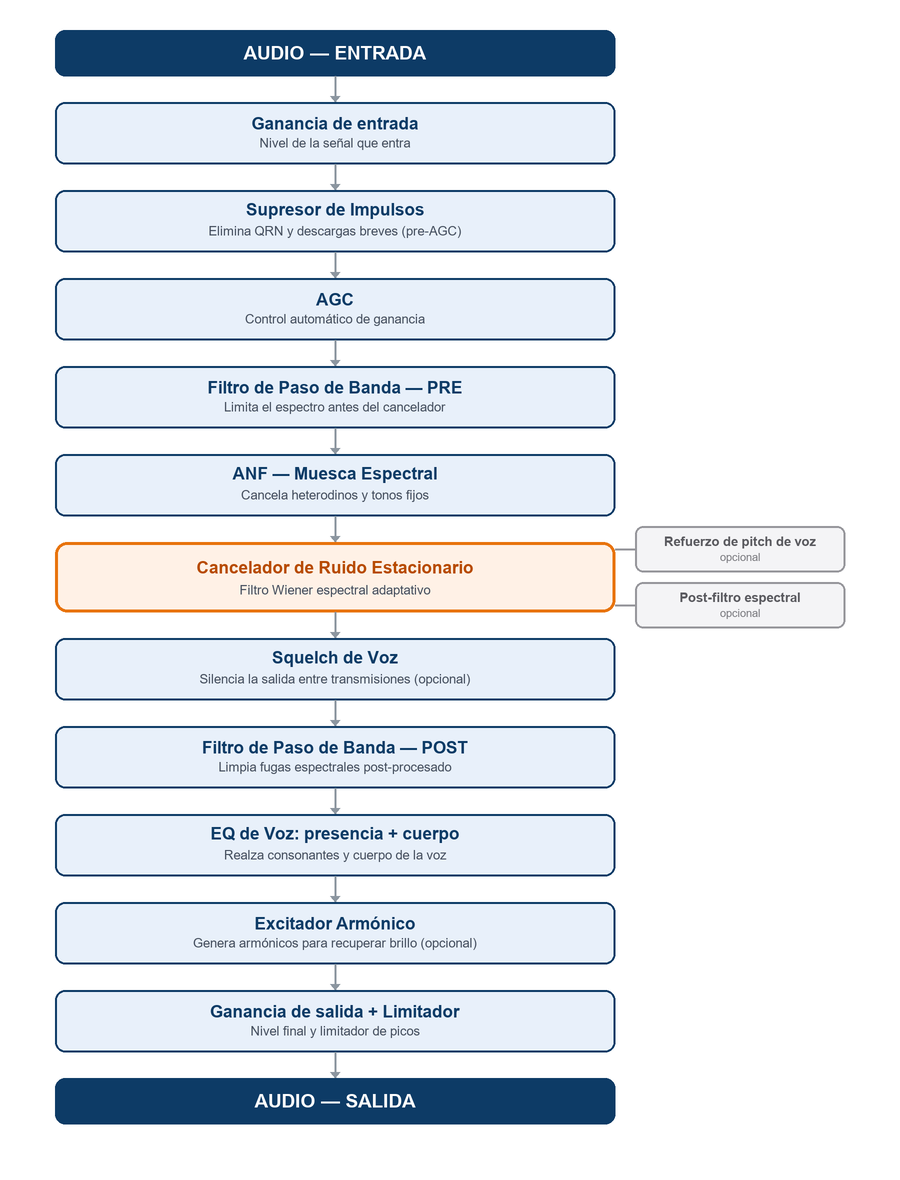
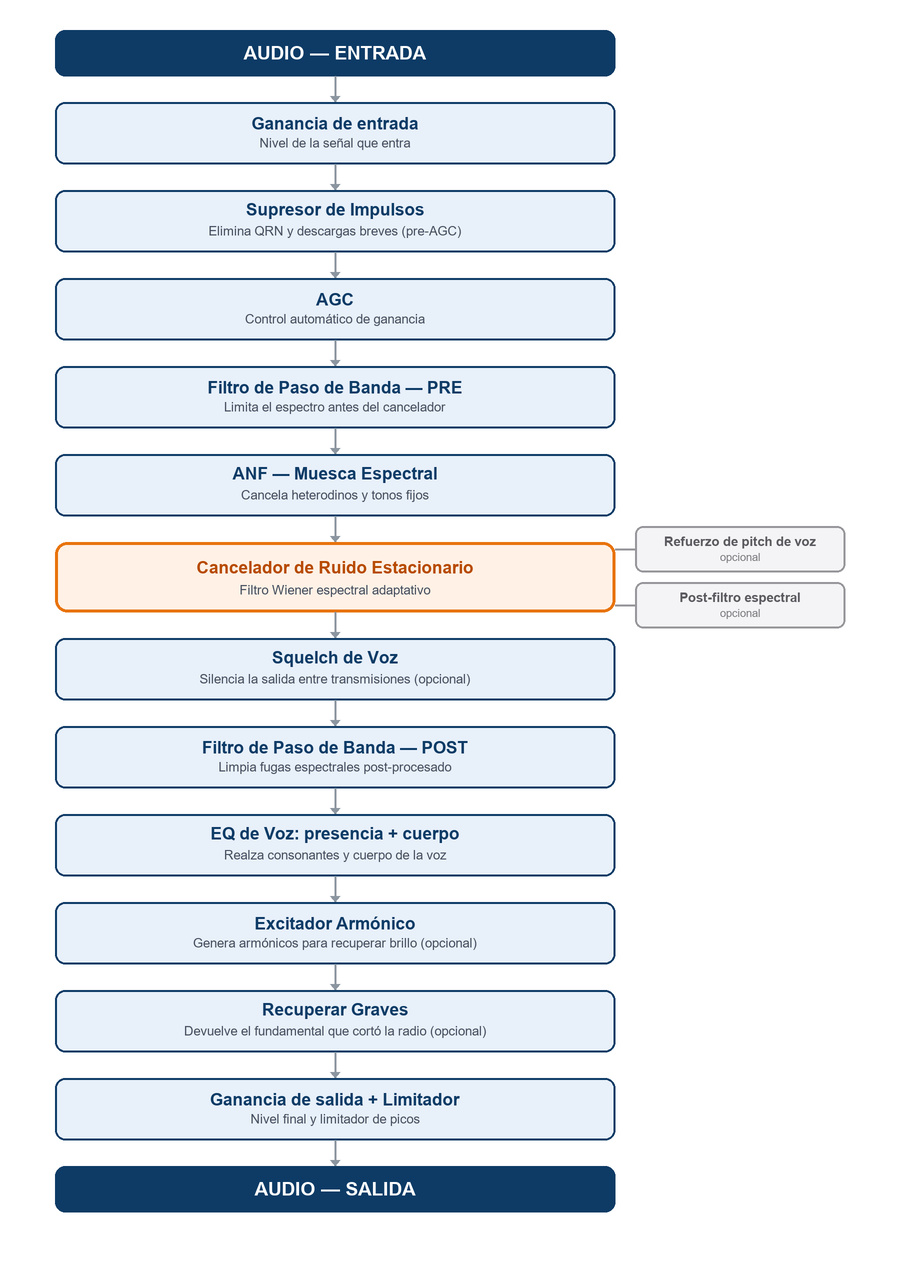
release: v2.0 — rediseño del cancelador, excitador real y recuperacion de graves
Salto de MAYOR, no de menor: cambio el corazon del cancelador y, sobre todo, el
significado numerico de varios controles (Post-Filtro, Intensidad, Mezcla del
excitador). Los presets de 1.9.x cargan sin error pero no suenan igual — los 7 de
fabrica se reajustaron en el aire.

Cancelador
  - El post-filtro ya no exponencia la ganancia: resta una cantidad fija de dB en
    los bins de ruido (~4.5 dB por punto del slider). El exponente multiplicaba
    por (1+s) la fluctuacion en dB del ruido — era la fuente dominante del
    gorgojeo con solo ruido, y castigaba los bins de voz con p_speech intermedio.
    Se aplica DESPUES de la Intensidad, para que la receta "Intensidad baja +
    post alto" vuelva a funcionar.
  - Anti-gorgojeo automatico gateado por el VAD, sin controles nuevos.
  - MCRA ya no aprende la voz sostenida: los frames con voz no alimentan el
    estimador. El gate es la PERIODICIDAD (autocorrelacion), no el VAD, porque el
    VAD depende del propio estimador y realimentaba el freeze.
  - El arranque de cada silaba ya no sale atenuado (salia ~5.8 dB por debajo de su
    meseta: la voz sonaba "limitada"). Ventana de ataque disparada por flanco.
  - Preview: deja de pasar por squelch, nivelador, EQ y excitador — las cuatro se
    disparan con voz y falseaban el diagnostico.

Excitador
  - Reescrito: antes no generaba armonicos audibles, era un realce de agudos
    lineal de +1.8 dB que ademas comprimia con el nivel. Ahora son armonicos
[…]

Changed region(s): [[0.0622, 0.0305, 0.9644, 0.9763], [0.9333, 0.4881, 0.9644, 0.5186]]

diff --git a/tools/gen_pipeline_diagram.py b/tools/gen_pipeline_diagram.py
@@ -55,6 +55,7 @@ STAGES = [
     ("Filtro de Paso de Banda — POST", "Bandpass Filter — POST", "Limpia fugas espectrales post-procesado", "Cleans spectral leakage after processing", "st"),
     ("EQ de Voz: presencia + cuerpo", "Voice EQ: presence + body", "Realza consonantes y cuerpo de la voz", "Boosts consonants and voice body", "st"),
     ("Excitador Armónico", "Harmonic Exciter", "Genera armónicos para recuperar brillo (opcional)", "Adds harmonics to restore brightness (optional)", "st"),
+    ("Recuperar Graves", "Restore Bass", "Devuelve el fundamental que cortó la radio (opcional)", "Brings back the fundamental the radio cut (optional)", "st"),
     ("Ganancia de salida + Limitador", "Output gain + Limiter", "Nivel final y limitador de picos", "Final level and peak limiter", "st"),
     ("AUDIO — SALIDA", "AUDIO — OUTPUT", "", "", "io"),
 ]

diff --git a/src/ui/main_window.py b/src/ui/main_window.py
@@ -1748,7 +1748,7 @@ class MainWindow(QMainWindow):
         valores actuales difieren del preset guardado) + build ID. Compara contra
         el snapshot en memoria — sin disco — para poder llamarse en cada cambio."""
         from buildinfo import BUILD_ID
-        title = "RadioNoiseKiller  v1.9.1  by LU6APA"
+        title = "RadioNoiseKiller  v2.0  by LU6APA"
         name = self._config.last_preset
         if name:
             self._refresh_preset_snapshot(force=False)

diff --git a/src/main.py b/src/main.py
@@ -16,7 +16,7 @@ from utils import resource_path
 def main():
     app = QApplication(sys.argv)
     app.setApplicationName("RadioNoiseKiller")
-    app.setApplicationVersion("1.9.1")
+    app.setApplicationVersion("2.0.0")
     icon_path = resource_path(os.path.join("Images", "RNK_ico.png"))
     if os.path.exists(icon_path):
         app.setWindowIcon(QIcon(icon_path))

diff --git a/MANUAL.md b/MANUAL.md
@@ -1,6 +1,6 @@
 # RadioNoiseKiller — Manual de Usuario
 
-**Versión 1.9.1**
+**Versión 2.0**
 
 ---
 
@@ -176,6 +176,7 @@ Cada casilla de verificación activa o desactiva un módulo del pipeline de form
 | **Filtro de paso de banda (post)** | Casi siempre activo junto con el pre. Limpia artefactos del procesamiento espectral. Corre después del cancelador y el squelch (el orden de esta lista refleja el pipeline). Sus límites pueden independizarse de la entrada (ver Cap. 5). |
 | **EQ Voz (presencia + cuerpo)** | Dos bandas paramétricas: presencia (claridad, 1–2 kHz) y cuerpo (calidez, 150–800 Hz). Activar para modelar la voz con señales debilitadas o muy filtradas. |
 | **Excitador armónico** | Para señales de voz opacas, sin brillo. Añade presencia. Comparar con y sin para decidir. |
+| **Recuperar graves** | Devuelve el fundamental de la voz cuando el filtro de la radio lo cortó, derivándolo de los armónicos que sí pasaron. Para voces que suenan delgadas o "telefónicas" pese a tener buen nivel — sobre todo en SSB con filtro angosto. |
 
 > **Consejo — activar de a uno:** al armar una configuración (o al recibir una señal nueva), activar y desactivar los módulos **de a uno por vez**, escuchando el efecto que produce cada uno. Como todos los cambios aplican en vivo, se oye la diferencia al instante: eso permite ajustar mejor cada módulo — o directamente quitarlo si en esa señal no aporta. Activar todo junto de entrada hace imposible saber qué está ayudando y qué no.
 
@@ -767,6 +768,7 @@ A la derecha de la misma fila, el botón **"🔇 Mute"** silencia la salida a lo
 | Squelch | ✅ Activo | Umbral 15%, retención 300 ms |
 | EQ Voz | ✅ Activo | Presencia +4 dB a 2000 Hz; cuerpo +3 dB a 350 Hz si la voz suena delgada |
 | Excitador armónico | ⬜ Opcional | Drive 2,0×, mezcla 25% |
+| Recuperar graves | ⬜ Opcional | Si la voz suena delgada. Empezar en 35% y subir de a poco |
 
 ### AM (ondas medias o cortas)
 
@@ -785,6 +787,7 @@ A la derecha de la misma fila, el botón **"🔇 Mute"** silencia la salida a lo
 | Squelch | ❌ No usar | Produce bombeo con música |
 | EQ Voz | ⬜ Opcional | Presencia si la voz suena apagada; cuerpo si suena delgada |
 | Excitador armónico | ⬜ Opcional | Con moderación |
+| Recuperar graves | ⬜ Opcional | En AM ancho el fundamental suele estar: revisar primero el corte inferior del pasabanda |
 
 ### Flujo de calibración recomendado
 
@@ -930,4 +933,4 @@ Los valores de los sliders **Máx Y** y **Máx X** del visualizador de espectro 
 
 ---
 
-*RadioNoiseKiller — versión 1.9.1*
+*RadioNoiseKiller — versión 2.0*

diff --git a/MANUAL_EN.md b/MANUAL_EN.md
@@ -1,6 +1,6 @@
 # RadioNoiseKiller — User Manual
 
-**Version 1.9.1**
+**Version 2.0**
 
 ---
 
@@ -176,6 +176,7 @@ Each checkbox enables or disables one pipeline module independently and in real 
 | **Bandpass filter (post)** | Almost always on together with pre. Cleans up spectral-processing artifacts. Runs after the canceller and the squelch (this list reflects the pipeline order). Its limits can be made independent from the input (see Ch. 5). |
 | **Voice EQ (presence + body)** | Two parametric bands: presence (clarity, 1–2 kHz) and body (warmth, 150–800 Hz). Enable to shape the voice on weakened or heavily filtered signals. |
 | **Harmonic exciter** | For dull voice signals lacking brightness. Adds presence. Compare with and without to decide. |
+| **Restore bass** | Brings back the voice's fundamental when the radio's filter cut it, deriving it from the harmonics that did get through. For voices that sound thin or "telephone-like" despite a good level — above all on SSB with a narrow filter. |
 
 > **Tip — enable one at a time:** when building a configuration (or on a new signal), enable and disable the modules **one at a time**, listening to the effect each one produces. Since all changes apply live, you hear the difference instantly: that lets you tune each module better — or simply drop it if it brings nothing on that signal. Enabling everything at once makes it impossible to tell what is helping and what is not.
 
@@ -767,6 +768,7 @@ On the right of the same row, the **"🔇 Mute"** button silences the speaker ou
 | Squelch | ✅ On | Threshold 15%, hold 300 ms |
 | Voice EQ | ✅ On | Presence +4 dB at 2000 Hz; body +3 dB at 350 Hz if the voice sounds thin |
 | Harmonic exciter | ⬜ Optional | Drive 2.0×, mix 25% |
+| Restore bass | ⬜ Optional | If the voice sounds thin. Start at 35% and raise it gradually |
 
 ### AM (medium wave or shortwave)
 
@@ -785,6 +787,7 @@ On the right of the same row, the **"🔇 Mute"** button silences the speaker ou
 | Squelch | ❌ Do not use | Produces pumping with music |
 | Voice EQ | ⬜ Optional | Presence if the voice sounds dull; body if it sounds thin |
 | Harmonic exciter | ⬜ Optional | In moderation |
+| Restore bass | ⬜ Optional | On wide AM the fundamental is usually there: check the bandpass low cut first |
 
 ### Recommended calibration flow
 
@@ -930,4 +933,4 @@ The **Max Y** and **Max X** sliders of the spectrum viewer are also saved in `se
 
 ---
 
-*RadioNoiseKiller — version 1.9.1*
+*RadioNoiseKiller — version 2.0*

diff --git a/CLAUDE.md b/CLAUDE.md
@@ -268,7 +268,16 @@ Bugs reales encontrados en revisión — cada uno es un patrón que puede reapar
    `test_post_filter_on_principal_autoenable`, falla intermitente según el estado del disco). Al
    testear un handler de slider, partir de un valor distinto conocido.
 
-## Cambios pendientes de release (post-v1.9.1)
+**v2.0 publicada (agosto 2026)** — release en GitHub con distribuibles Windows y Linux. Versión de
+app 2.0.0, manuales `MANUAL_RadioNoiseKiller_v2.0.pdf` (ES, 37 págs) y `..._v2.0_EN.pdf` (EN, 36
+págs). Título "v2.0 by LU6APA". **Salto de mayor, no de menor**: cambió el corazón del cancelador y,
+sobre todo, **el significado numérico de varios controles** (Post-Filtro, Intensidad, Mezcla del
+excitador). Los presets de 1.9.x cargan sin error pero no suenan igual — los 8 de fábrica se
+reajustaron en el aire. Todo el contenido de abajo se validó escuchando en la radio, con varias
+iteraciones de ida y vuelta (ver los "reportado en el aire" de cada ítem: casi todos los fixes de
+esta versión salieron de una escucha que contradijo una medición sintética).
+
+## Cambios de la v2.0
 
 **Post-filtro rediseñado + anti-gorgojeo automático** (investigación de agosto 2026; medido en
 simulación, **pendiente de validación en el aire**):
